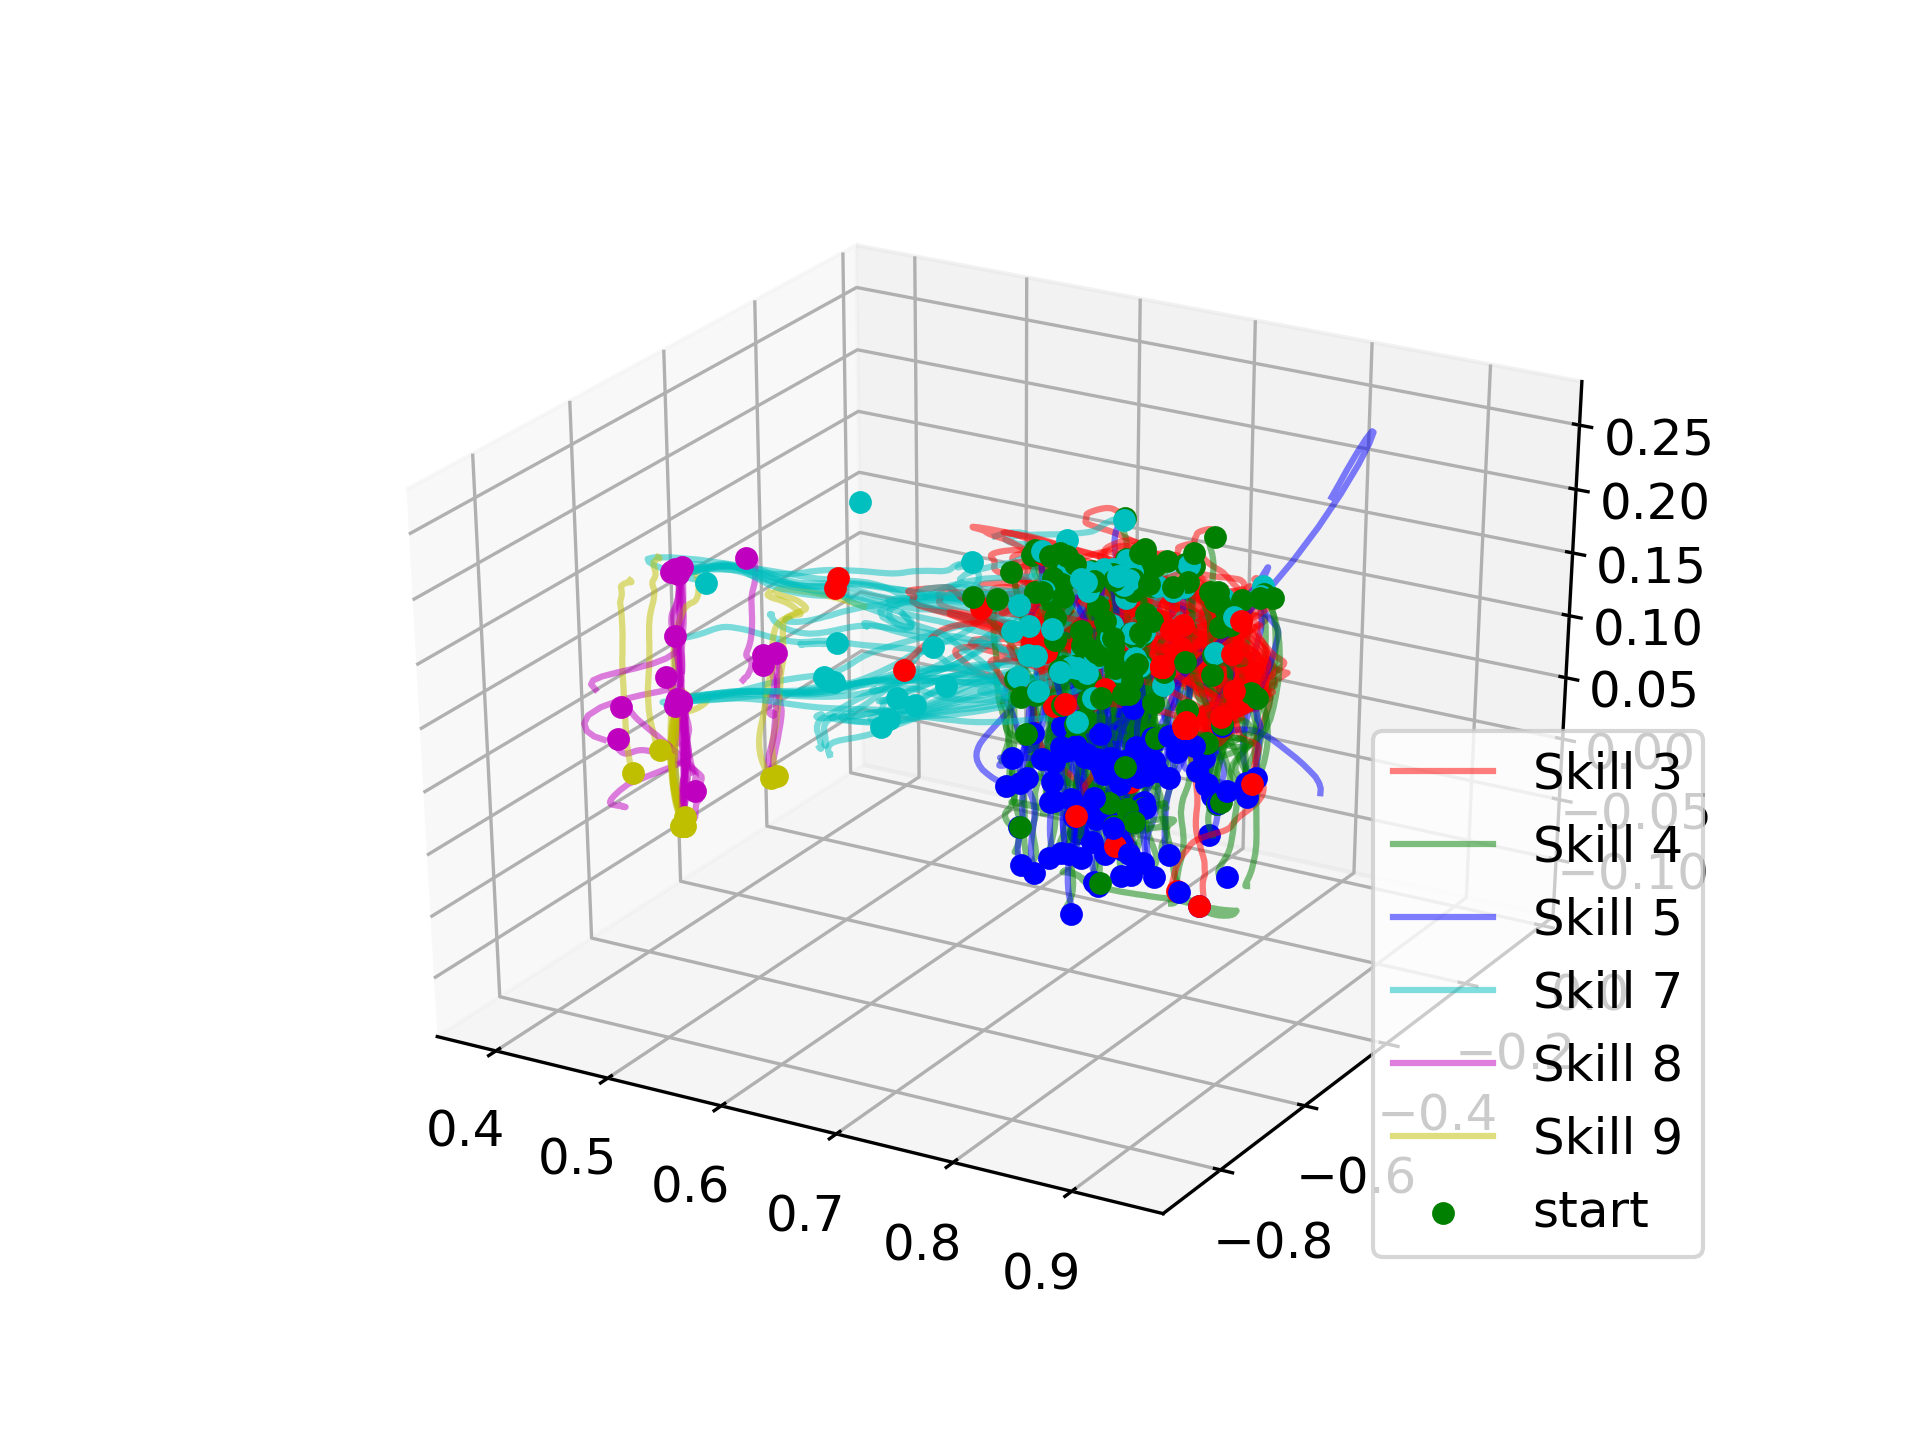
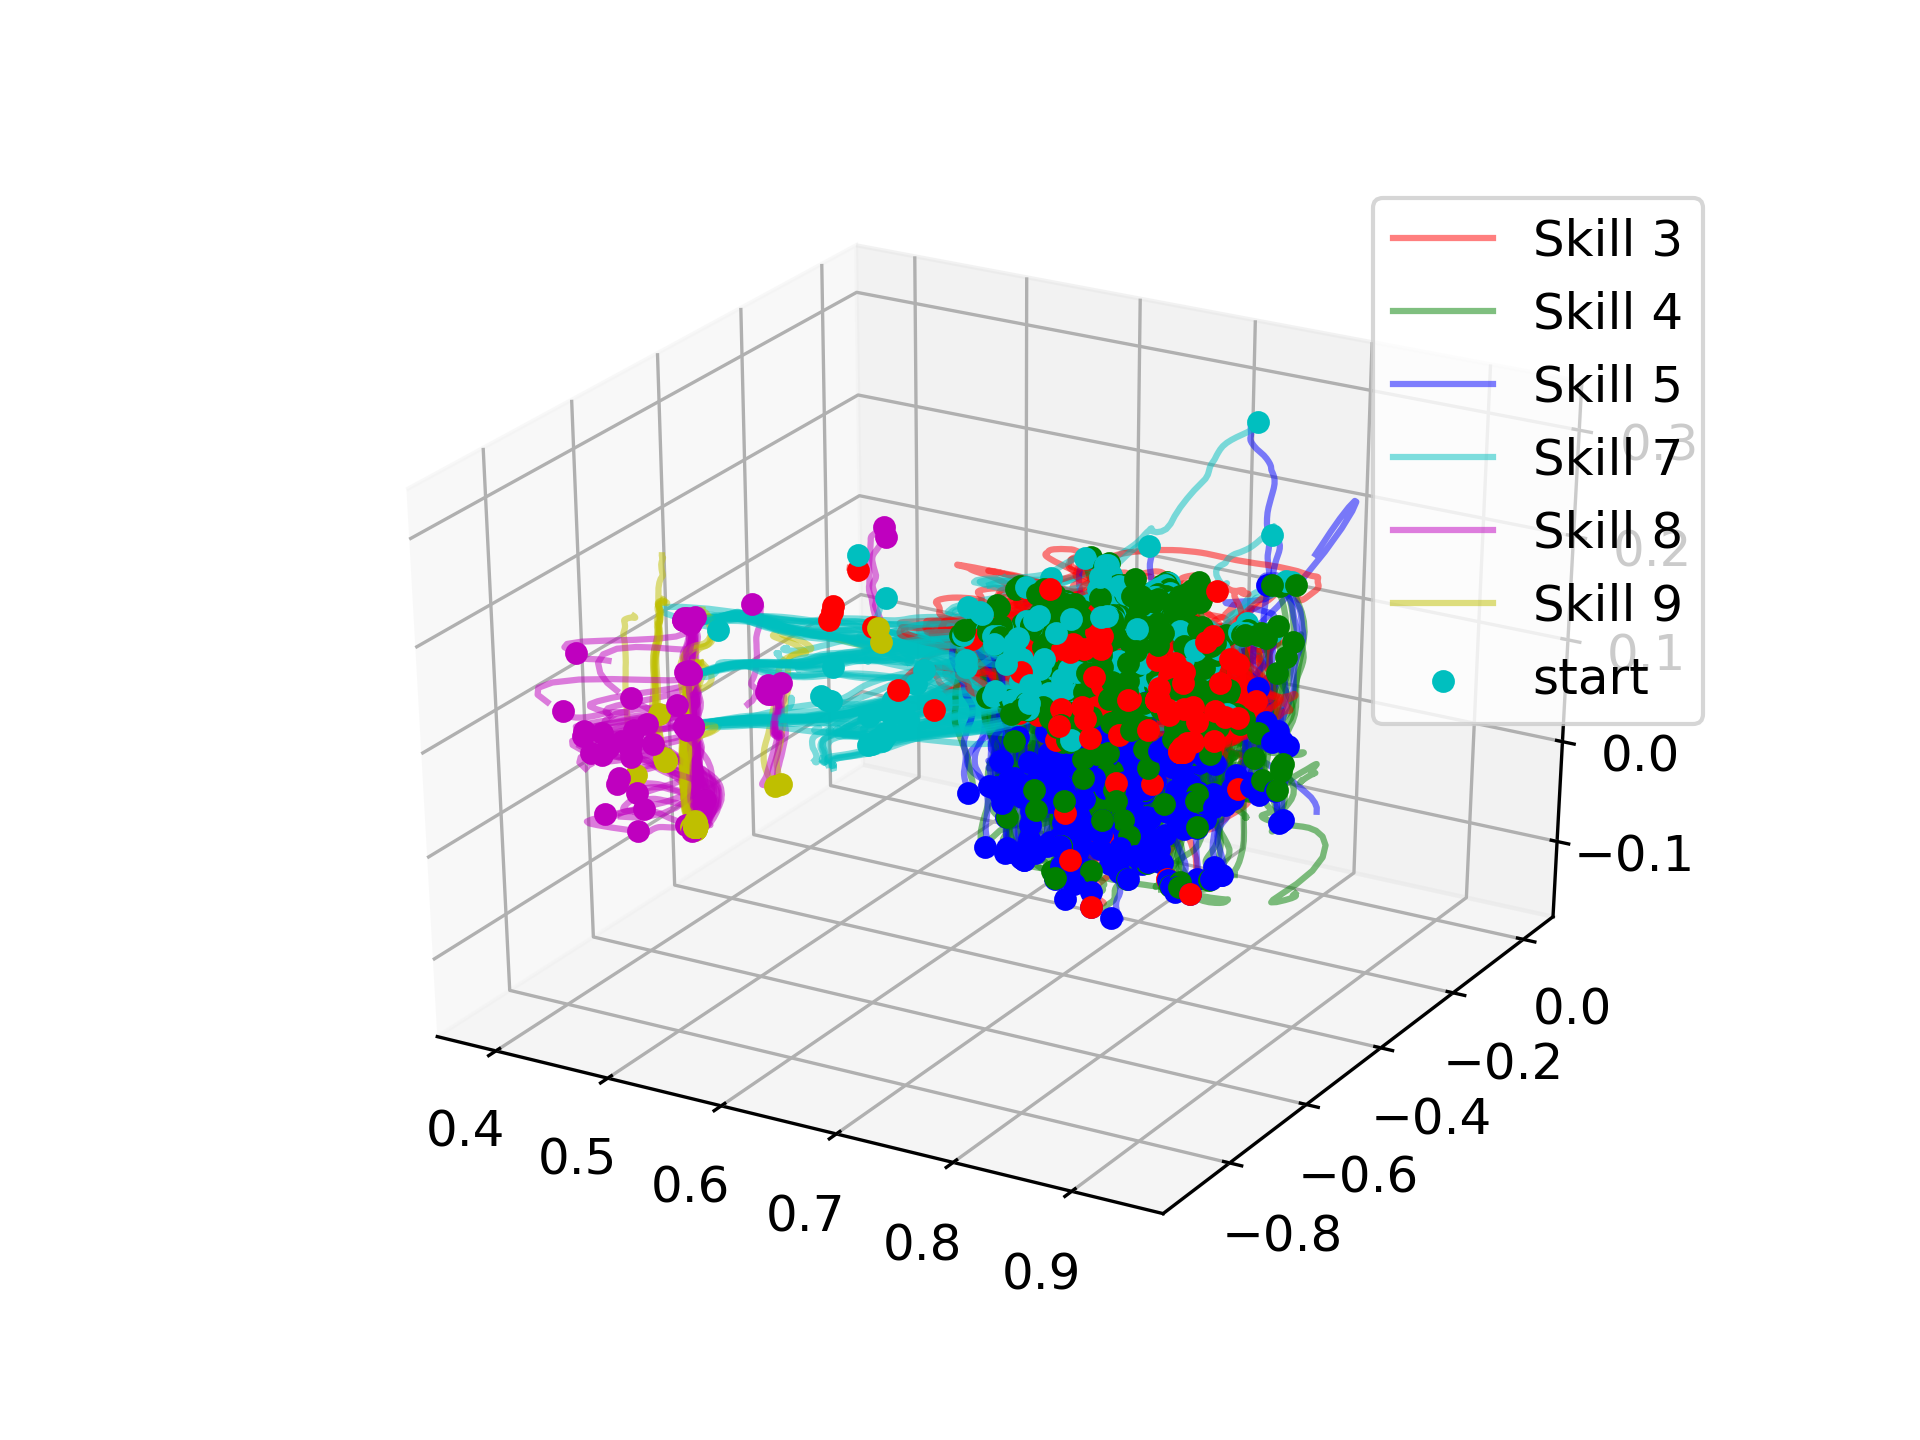
JIM's ecxperience_tuple's  generation file

diff --git a/src/paper_graph_plotter/2018journal_anomaly_detector_and_classifier/plot_all_succ_skills/tuple_collection_all_succ_skills_pose.py b/src/paper_graph_plotter/2018journal_anomaly_detector_and_classifier/plot_all_succ_skills/tuple_collection_all_succ_skills_pose.py
@@ -1,0 +1,104 @@
+import glob
+import os
+import coloredlogs, logging
+import pickle
+import matplotlib.pyplot as plt
+import matplotlib
+matplotlib.rcParams.update({'font.size': 12})
+plt.rcParams["font.family"] = "Time New Roman"
+from mpl_toolkits.mplot3d import Axes3D
+import numpy as np
+import pandas as pd
+from collections import OrderedDict
+from collections import namedtuple
+import ipdb
+coloredlogs.install()
+
+
+
+if __name__ == '__main__':
+    logger = logging.getLogger()
+    dir_of_this_script = os.path.dirname(os.path.realpath(__file__))
+    data_path = "/home/birl-spai-ubuntu14/baxter_ws/src/SPAI/smach_based_introspection_framework/birl_anomaly_dataset/anomaly_detection_feature_selection_folder/No.0 filtering scheme/whole_experiment"
+    experience_tuple = []
+    experience = namedtuple("Experience", field_names = ["state", "action", "reward", "next_state", "done"])
+
+    for i, csv in enumerate(glob.glob(os.path.join(data_path, "*", "*csv"))):
+        df = pd.read_csv(csv)
+        s_t = df.iloc[0, 0]
+        df.iloc[:, 0] = df.iloc[:, 0]-s_t
+
+        tag_ranges = pickle.load(open(os.path.join(os.path.dirname(csv), 'tag_ranges.pkl'), 'rb'))
+        tag_stime = []
+        for tag, (st, et) in tag_ranges:
+            tag_stime.append((tag, st.to_sec()-s_t, et.to_sec()-s_t))
+        
+
+        for tag, start, end in tag_stime:
+            if int(tag) != 0:
+                if int(tag) < 0 or int(tag) >= 1000:
+                    print ('Ignore the anomaly tag < 0 or tag >= 1000')
+                    continue
+                # if int(tag) < 0:
+                #     print ('Ignore the anomaly tag < 0 or tag >= 1000')
+                #     continue
+                else:
+                    tag_df = df.loc[(df['Unnamed: 0'] >= start) & (df['Unnamed: 0'] <= end)]
+                    select_list = ['baxter_enpoint_pose.pose.position.x',# position
+                                    'baxter_enpoint_pose.pose.position.y',
+                                    'baxter_enpoint_pose.pose.position.z',
+
+                                #    'baxter_enpoint_pose.pose.orientation.x', # orientation
+                                #    'baxter_enpoint_pose.pose.orientation.y',
+                                #    'baxter_enpoint_pose.pose.orientation.z',
+                                #    'baxter_enpoint_pose.pose.orientation.w',
+
+                                #    'baxter_enpoint_pose.twist.angular.norm', # angular
+                                #    'baxter_enpoint_pose.twist.angular.x',
+                                #    'baxter_enpoint_pose.twist.angular.y',
+                                #    'baxter_enpoint_pose.twist.angular.z',
+
+                                #    'baxter_enpoint_pose.twist.linear.norm', # linear
+                                #    'baxter_enpoint_pose.twist.linear.x',
+                                #    'baxter_enpoint_pose.twist.linear.y',
+                                #    'baxter_enpoint_pose.twist.linear.z',
+                                
+                                #    'robotiq_force_sensor.wrench.force.norm', # force
+                                #    'robotiq_force_sensor.wrench.torque.norm', # force
+
+                                #    'wrench.force.x',
+                                #    'wrench.force.y',
+                                #    'wrench.force.z',
+                                #    'wrench.torque.x',
+                                #    'wrench.torque.y',
+                                #    'wrench.torque.z'
+                                ]
+
+                    values = tag_df[select_list].values
+                    
+                    position_list = ['baxter_enpoint_pose.pose.position.x',# position
+                                'baxter_enpoint_pose.pose.position.y',
+                                'baxter_enpoint_pose.pose.position.z',
+                                ]
+                    # state = values[0]
+                    # next_state = values[-1]
+                    if len(values) !=0:
+                        state = values[0]
+                        next_state = values[-1]
+                    else:
+                        continue
+                 
+                    action = tag
+                    if tag == 8:
+                        reward = 100
+                        done = True
+                    else:
+                        reward = -1
+                        done = False
+                    e =  experience(state, action, reward, next_state, done)
+        experience_tuple.append(e)
+        
+
+                        
+        # if i > 300: break
+    np.save("experience_tuple_no_recovery_skill_positions.npy", experience_tuple)

diff --git a/src/paper_graph_plotter/2018journal_anomaly_detector_and_classifier/plot_all_succ_skills/plot_all_wholde_exp_pose.py b/src/paper_graph_plotter/2018journal_anomaly_detector_and_classifier/plot_all_succ_skills/plot_all_wholde_exp_pose.py
@@ -28,9 +28,6 @@ if __name__ == '__main__':
               9:'y'
                   }
     for i, csv in enumerate(glob.glob(os.path.join(data_path, "*", "*csv"))):
-        print i
-        print csv
-        print 
         df = pd.read_csv(csv)
         s_t = df.iloc[0, 0]
         df.iloc[:, 0] = df.iloc[:, 0]-s_t
@@ -55,30 +52,12 @@ if __name__ == '__main__':
                     ax.plot(values[:,0],values[:,1],values[:,2], color=colors[tag], label='Skill ' + str(tag), alpha=0.5)
                     try:
                         ax.scatter(values[0,0],values[0,1],values[0,2], c = colors[tag], label = "start")
+                        #ax.scatter(values[-1,0],values[-1,1],values[-1,2], c = 'blue' , label = "end")        
                     except Exception as e:
                         logger.error("error encountered ")
                         continue
                     
-#                    ax.scatter(values[-1,0],values[-1,1],values[-1,2], c = 'blue' , label = "end")        
-        # xmin,xmax = ax.get_xlim()
-        # ymin,ymax = ax.get_ylim()
-
-        # for tag, start, end in tag_stime:
-        #     if int(tag) != 0:
-        #         if int(tag) < 0:
-        #             print ('Ignore the anomaly tag < 0')
-        #             continue
-        #             c = 'red'
-        #         else:
-        #             c = 'green'
-        #         # ax.axvline(start, c=c)
-        #         # ax.text(start, ymax-0.05*(ymax-ymin), 'skill %s'%tag, color=c, rotation=-90)
-        #     else:
-        #         print ('Ignore the useless tag=0')
-        #         continue
-        #         ax.axvline(start, c = 'gray')   
-        # ax.set_ylabel("Scaled Value")
-        if i > 100: break
+        if i > 300: break
     handles, labels = plt.gca().get_legend_handles_labels()
     by_label = OrderedDict(zip(labels, handles))
     plt.legend(by_label.values(), by_label.keys())
@@ -88,4 +67,6 @@ if __name__ == '__main__':
         os.makedirs(output_dir)
     fig.savefig(os.path.join(output_dir, "multi_whole_exps.png"),format='png', dpi=300)
     plt.show()
+        
+
         
